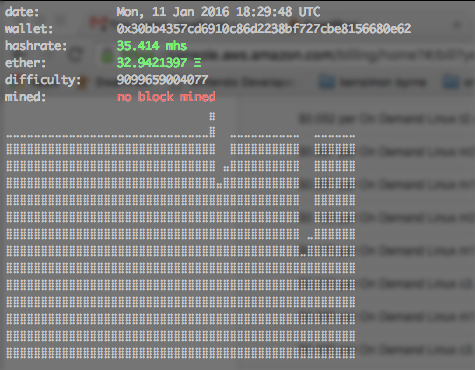
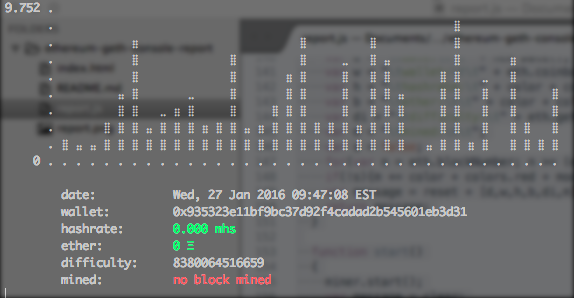
updated charts

diff --git a/report.js b/report.js
@@ -1,7 +1,7 @@
 var report = (function(){
 	var graph = {
 		rows:15,
-		cols:50,
+		cols:36,
 		vals:[],
 		chars:[" ", "⣀", "⣤", "⣶", "⣿"]
 	};
@@ -31,7 +31,7 @@ var report = (function(){
 	var reset = color + "0" + modifier.normal;
 	var clear = "\033c";
 
-	var wait = 1000;
+	var wait = 250;
 	var interval = {};
 
 	var wallet = eth.coinbase;
@@ -43,64 +43,111 @@ var report = (function(){
 		date = new Date();
 	};
 
-	function mined()
-	{
+	function mined(){};
 
+	function matrix(x, y) {
+	  var arr = new Array(y);
+		for (var i = 0; i < y; i++){arr[i] = new Array(x);}
+		return arr;
 	};
+
+	function padding(str, n) {
+	  var linew = str.split('\n')[0].length;
+	  var line = Array(linew).join(' ') + '\n';
+	  str = Array(n).join(line) + str;
+	  str = str + Array(n).join(line);
+	  str = str.replace(/^/gm, Array(n).join(' '));
+	  return str;
+	};
+
+	function string(out) {
+	  var buf = [];
+		for (var i = 0; i < out.length; i++){buf.push(out[i].join(''));}
+	  return buf.join('\n');
+	};
+
+	function max(data) {
+	  var n = data[0];
+	  for (var i = 1; i < data.length; i++){n = data[i] > n ? data[i] : n;};
+	  return n;
+	};	
 
 	function draw()
 	{
 		graph.vals.shift();
 		graph.vals.push(hashrate);
-		var max = Math.max.apply(Math, graph.vals);
-		var delta = (max/graph.rows);
-		
-		var vals = [];
-		var zeros = [];
-		for(var c = 0; c < graph.cols; c++)
-		{
-			var val = parseInt((graph.vals[c]/max)*100);
-			var zero = graph.rows - parseInt((graph.vals[c]/max)*graph.rows);
-			vals.push(val);
-			zeros.push(zero);
-		}
 
-		var message = "";
+	  var w = 80;
+	  var h = 10;
 
-		for(var c = 0; c < graph.rows; c++)
-		{
-			var cap = vals[c]%4%4;
-			for(var r = 0; r < graph.cols; r++)
-			{
-				var fill = graph.chars[0];
-				if(zeros[r] == c)
-				{
-					fill = graph.chars[cap];
-				}
-				if(zeros[r] < c)
-				{
-					fill = graph.chars[4];
-				}
-				message += fill;
-			}
-			message += "\n";
-		}	
-		console.log(message);
+	  var pad = 0;
+	  w -= pad * 2;
+	  h -= pad * 2;
+
+	  var out = matrix(w, h);
+	  var m = max(graph.vals) || 0;
+	  var label = Math.abs(m).toString();
+	  var labelw = label.length;
+	  var labelp = 1;
+
+	  var ch = h;
+	  var cw = w - labelw - labelp;
+
+	  for (var y = 0; y < h; y++) {
+	    for (var x = 0; x < w; x++) {
+	      out[y][x] = ' ';
+	    }
+	  }
+
+	  for (var i = 0; i < labelw; i++) {out[0][i] = label[i];}
+	  out[h - 1][labelw - labelp] = '0';
+	  for (var y = 0; y < h; y++) {out[y][labelw + labelp] = '․';}
+
+	  var x = labelw + labelp;
+	  while (x < w) {
+	    out[h - 1][x++] = '․';
+	    out[h - 1][x++] = ' ';
+	  }
+
+	  var space = Math.floor(w / 2) - 1;
+	  var excess = Math.max(0, graph.vals.length - space);
+	  if (excess) graph.vals = graph.vals.slice(excess);
+
+	  var x = labelw + labelp + 2;
+	  for (var i = 0; i < graph.vals.length; i++) {
+	    var d = graph.vals[i];
+	    var p = d / m;
+	    var dy = (h - 2) * p;
+	    var y = Math.round(dy);
+	    var c = y < 0 ? graph.chars[0] : graph.chars[4];
+	    if (y < 0){y = -y};
+
+	    dy = Math.floor(Math.abs((dy - y)*10));
+	    if(dy < 0){dy = 0;}
+	    var index = true;
+	    while (y--) {
+	      out[Math.abs(y - h) - 2][x] = dy != 0 && index ? graph.chars[dy] : c;
+	      index = false;
+	    }
+	    x += 2;
+	  }
+
+	  return padding(string(out, h), pad);
 	}
 
 	function stats()
 	{
-    var d = "date:\t\t" + new Date();
-    var w = "wallet:\t\t" + eth.coinbase;
-    var h = "hashrate:\t" + color + colors.green + modifier.bold + parseFloat((miner.hashrate/1000)/1000).toFixed(3) + " mhs";
-    var b = "ether:\t\t" + color + colors.green + modifier.bold + web3.fromWei(eth.getBalance(eth.coinbase), "ether") + " Ξ";
-    var di = "difficulty:\t" + eth.getBlock("latest").difficulty;
-    var m = "mined:\t\t";
-    var s = false;
-    for(var n = eth.blockNumber; n >= (eth.blockNumber-10); n--){if(eth.getBlock(n).miner == eth.coinbase){m += " " + n;s = true;}};
-    if(!s){m += color + colors.red + modifier.bold + "no block mined"};
-    var message = reset + [d,w,h,b,di,m].join(" " + reset + "\n");
-    console.log("\033c" + message + reset);	
+		var d = "\tdate:\t\t" + new Date();
+		var w = "\twallet:\t\t" + eth.coinbase;
+		var h = "\thashrate:\t" + color + colors.green + modifier.bold + parseFloat((miner.hashrate/1000)/1000).toFixed(3) + " mhs";
+		var b = "\tether:\t\t" + color + colors.green + modifier.bold + web3.fromWei(eth.getBalance(eth.coinbase), "ether") + " Ξ";
+		var di = "\tdifficulty:\t" + eth.getBlock("latest").difficulty;
+		var m = "\tmined:\t\t";
+		var s = false;
+		for(var n = eth.blockNumber; n >= (eth.blockNumber-10); n--){if(eth.getBlock(n).miner == eth.coinbase){m += " " + n;s = true;}};
+		if(!s){m += color + colors.red + modifier.bold + "no block mined"};
+		var message = reset + [d,w,h,b,di,m].join(" " + reset + "\n");
+		return message;
 	}
 
 	function start()
@@ -113,11 +160,12 @@ var report = (function(){
 		message += "*please wait for initial response*";
 		console.log(message);
 		interval = setInterval(function(){
-			console.log(reset);
 			hashrate = parseFloat((miner.hashrate/1000)/1000).toFixed(3);
-			stats();
-			draw();
+			var s = stats();			
+			var d = draw();		
+			console.log("\033[2J" + "\033[0f" + reset + d + "\n\n" + reset + s + reset);
 		}, wait);
+
 	};
 
 	function stop()
